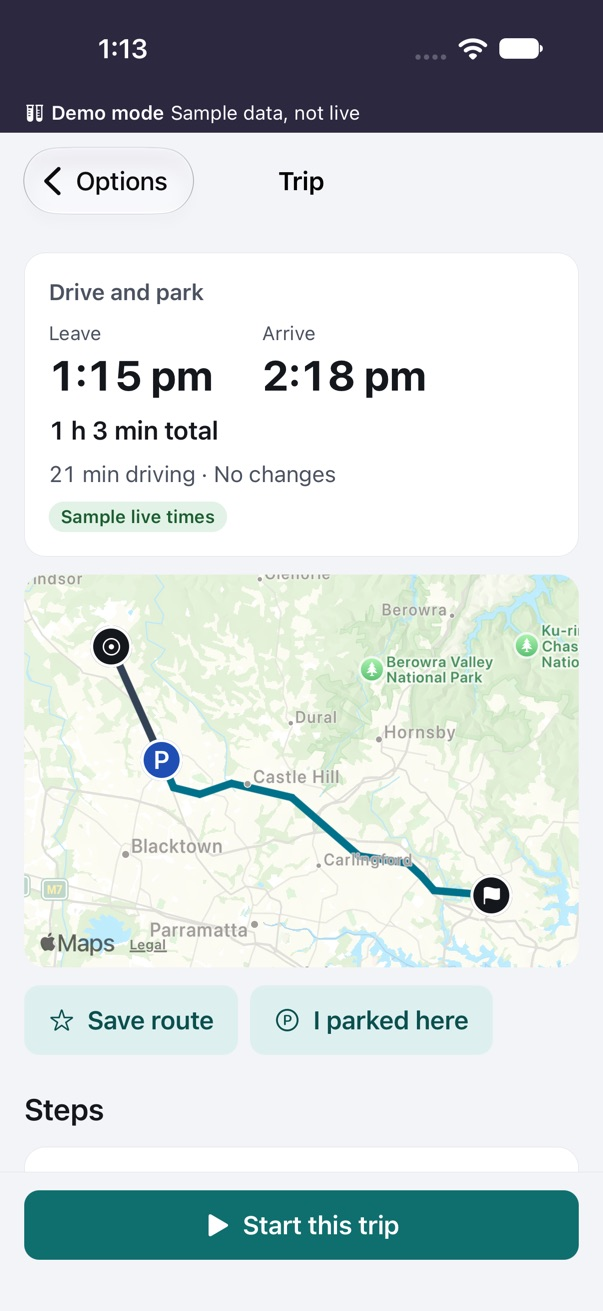
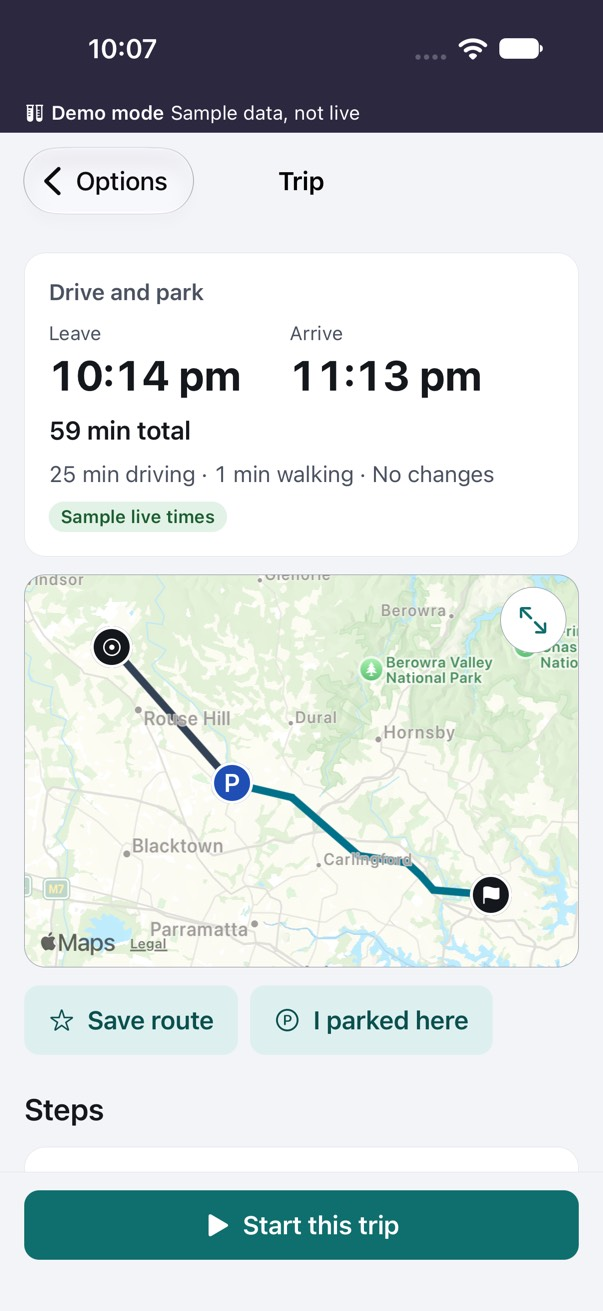
docs: refresh the review screenshots with the map card

diff --git a/docs/release.md b/docs/release.md
@@ -163,5 +163,5 @@ Also confirm in App Store Connect:
 - **Sizes:** 6.9" (1320 × 2868, from the iPhone 17 Pro Max or 18 Pro Max simulator) and 6.3" (1206 × 2622, from the iPhone 17 Pro or 18 Pro simulator).
 - **Format:** JPEG with no alpha channel. Use `xcrun simctl io booted screenshot --type=jpeg file.jpg`.
 - **Live data:** capture them in live mode once the production API is up. Demo-mode captures show the demo banner and are for internal review only.
-- **Review set:** `docs/screenshots/` holds the main screens from the XCUITest walk-through (`testCapturesTheMainScreens`, iPhone 18 Pro simulator, demo mode, 2026-10-26), reduced to JPEG for the repository. They show the demo banner, so they are not for the store.
+- **Review set:** `docs/screenshots/` holds the main screens from the XCUITest walk-through (`testCapturesTheMainScreens`, iPhone 18 Pro simulator, demo mode, 2026-10-28), reduced to JPEG for the repository. They show the demo banner, so they are not for the store.
 - **April 2027:** Apple's iOS 27 SDK requirement also brings iPhone Duo screenshots. Those need Xcode 27.1 or later.
